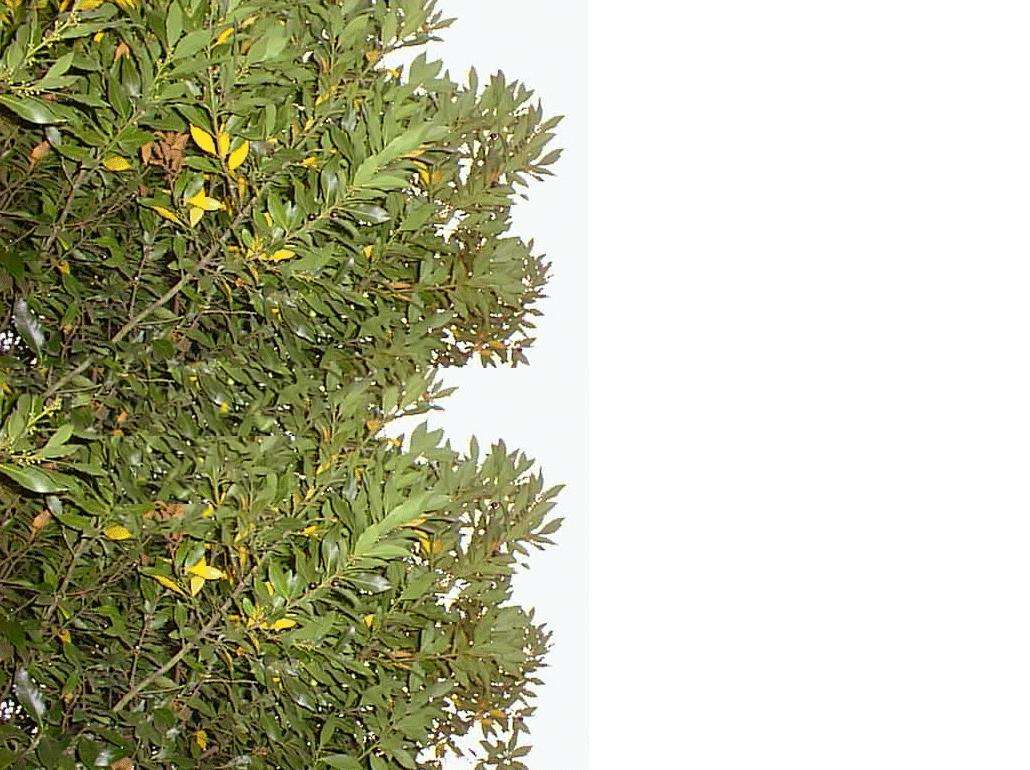
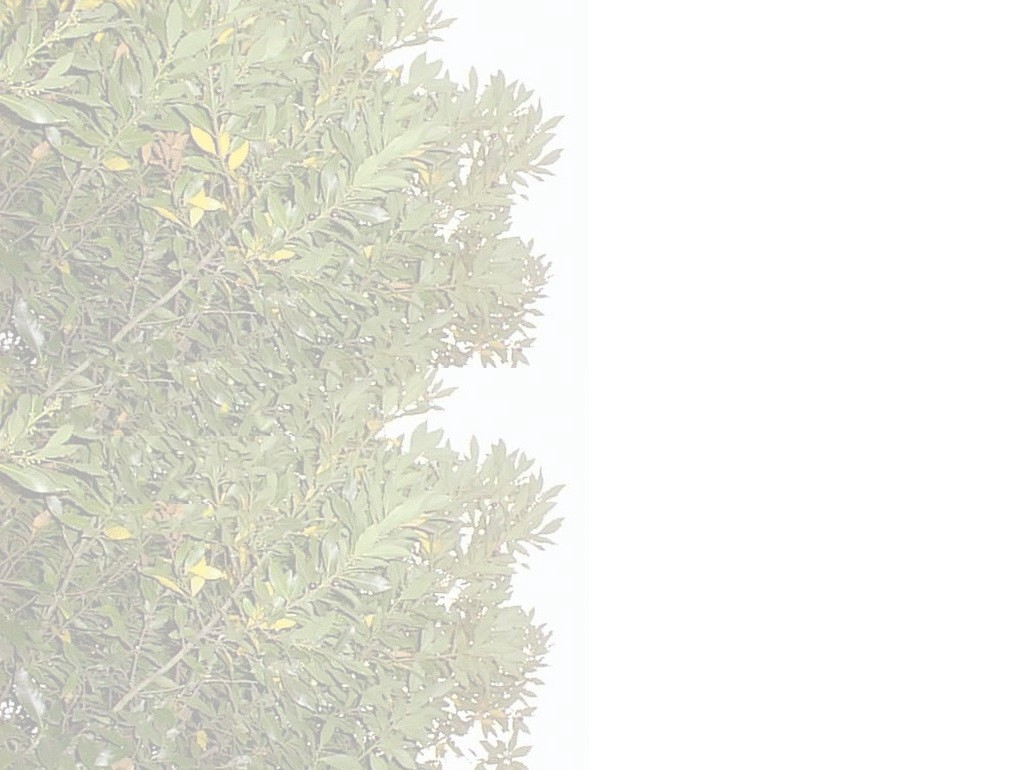
Commit 2 files to main

diff --git a/lauriers.html b/lauriers.html
@@ -1,9 +1,8 @@
 <html>
-<head>
-<meta charset="utf-8"/><title>Les lauriers</title><meta content="86400" http-equiv="expires"/>
-<meta content="Christian Souchon" name="author"/>
-<meta content="Texte du poème 'Les lauriers'" name="description"/>
-<meta content="Les lauriers, The Laurels, Michel Galiana, Michel Souchon, Christian Souchon, poésie, poème, poetry, poem, English translation " name="keywords"/>
+<head><title>Les lauriers</title><meta http-equiv="expires" content="86400">
+<META Name="author" content="Christian Souchon">
+<META Name="description" content="Texte du poème 'Les lauriers'">
+<META Name="keywords" content="Les lauriers, The Laurels, Michel Galiana, Michel Souchon, Christian Souchon, poésie, poème, poetry, poem, English translation ">
 <style>
 <!--
  /* Style Definitions */
@@ -24,87 +23,217 @@ a:visited, span.MsoHyperlinkFollowed
 div.Section1
 	{page:Section1;}
 -->
-</style><link href="https://chrsouchon.fr/logo/goelan.jpg" rel="icon" type="image/x-icon"/></head>
-<body background="laurier.jpg" bgcolor="green" text="white">
+</style></head>
+
+<body bgcolor="green" background="laurier.jpg" text=black>
 <p><center>
-<font color="white" face="arial">
-<table cellpadding="4">
+
+<font color="black" face="arial">
+<Table cellpadding=4>
 <tr>
-<td valign="top" width="50%"><pre>
-<p class="MsoNormal"><b><span style="font-family:Arial;color:white">
+<td width=50% valign=top><pre>
+<p class=MsoNormal><b><span style='font-family:Arial;color:black'>
 VI LES LAURIERS
 
-Lorsqu'au fond des grands bois tout roses de lumière
+1. Lorsqu'au fond des grands bois tout roses de lumière
 J'entendis la chanson que vient clore la mort
 Je le savais que ce n'était pas la première
 Mais pensais que nul chant ne serait aussi fort.
 
-Lampe jaune, réduit intime - folle enfance.
+2. Lampe jaune, réduit intime - folle enfance.
 Vous n'irez plus au bois, les lauriers sont coupés,
 Les beaux lauriers qui couronneraient sa jouvence,
 Et la dame ne viendra pas les ramasser.
 
-Elle ne croisera pas les mains sur les branches,
+3. Elle ne croisera pas les mains sur les branches,
 Les ronces pousseront et les grands glaïeuls fous.
 Les lauriers chus, hélas, enguirlandent ses hanches,
 Les liserons d'un soir enlacent ses genoux.
 
-Et seul me reste un souvenir comme de fièvres:
+4. Et seul me reste un souvenir comme de fièvres:
 Sa voix rauque d'enfant, de fiertés embrasée,
 Son rire s'embaumant d'effluves sur ses lèvres,
 Sa bouche où des garçons s'égarent les baisers.
 
-Les lauriers sont coupés. Il n'y a plus de rondes.
+5. Les lauriers sont coupés. Il n'y a plus de rondes.
 Il n'y a plus d'enfant pour rêver tout un soir.
 Adieu, janviers givrés! Adieu, l'automne blonde!
 Tous deux nous poursuivons notre course au bois noir.
 
-Michel Galiana (c) 1991
-</span></b></p></pre></td>
-<td valign="top" width="50%"><pre>
-<p class="MsoNormal"><b><span style="font-family:Arial;color:black">
+Michel Galiana (c) nov. 1953- fév. 1954
+</p></td>
+<td width=50% valign=top><pre>
+<p class=MsoNormal><b><span style='font-family:Arial;color:black'>
 VI THE LAURELS
 
-When under yonder wood bathing in rosy tone
-I first perceived the song that's concluded by death,
-Well did I know that it could not be the first one
-But thought that no chant could ever rise from such depth.
+1. When in the depths of the great woods, rosy with light,
+I heard the song that death comes to bring to a close,
+I knew well it was not the first I’d heard— yet might
+No other strains ever be so poignant as those.
 
-Yellow lamp, intimate hideout - foolish childhood.
-You won't go to the wood, the laurel shrubs are cut,
-The lovely laurels with which would be wreathed his youth,
-And the lady never will come to pick them up.
+2. Yellow lamp, intimate retreat — my wild childhood,
+You will go to the woods no more, laurels are cut,
+The lovely laurels that would have wreathed her youth,
+The lady of the song won’t come to pick them up.
 
-She will never again fold her hands on the twigs,
-Bramble branches will thrive and wild gladioli.
-Fallen branches, alas, entwine around her hips,
-Bindweed has grown and bound her two knees overnight.
+3. She will not fold again her hands upon the twigs:
+A bramble bush will grow, and tall, mad gladioli.
+The fallen twigs, alas, vie, to garland her hips,
+With bindweed that has entwined her knees overnight
 
-And naught is left to me but feverish memories:
-Her hoarse little girl's voice which is fired up with pride,
-Her laugh that on her lips fragrance accompanies,
+4. All that remains to me are feverish memories:
+Her little girl’s hoarse voice, which was kindled with pride,
+Her laughter on her lips, embalmed with fragrances,
 Her mouth on which the kisses of the boys run dry.
 
-The laurel shrubs are cut. There are no more dances.
-And no more child at night shall ever dream nor brood,
+5. The laurels are cut. There are no more round dances.
+And there is no child left through an evening to brood.
 Farewell, frosty winters! Farewell, golden autumns!
-Now each of us follows his path through the dark wood.
-</span></b></p></pre>
-Transl. Christian Souchon  01.01.2004 (c) (r) All rights reserved
-</td></tr></table></font></center></p>
+Now each of us follows our course in the black wood.
+</pre></b><font color=black>
+Transl. Christian Souchon  01.01.2004 - 2026 (c) (r) All rights reserved
+</p></td></tr>
+</table>
 <p>
-
+</center>
 Note :<p>
-<table cellpadding="4">
-<td valign="top" width="50%"><font color="white"><i>
-"Nous n'irons plus au bois, Les lauriers sont coupés": refrain d'une chanson enfantine.</i></font></td>
-<td valign="top" width="50%"><font color="black"><i>
-"We won't go to the wood, The laurel shrubs are cut": burden of a children's song.</i></font></td>
+<Table cellpadding=4>
+<td width=50% valign=top><font color=black><i>
+
+<b>1° "Sa bouche où des garçons s'égarent les baisers".</b><br>
+<br>
+Q. En 2026, en discutant avec l'omnisciente IA, j'ai découvert que l'insolite 4ème vers de la strophe 4, qui semble faire une fille facile de l'inconnue rencontrée au Parc de Saint-Cloud le 29 juin 1953, pourrait être en réalité une citation du poète américain <b>Hart Crane</b> (1899-1933) tirée de son poème « The Broken Power ». J'ai reproduit tel quel le vers original dans ma traduction anglaise.<br> 
+<font color="maroon"><br>
+R. L'IA est d'avis qu'il ne s'agit pas d'emprunt, mais d'<b>affinité</b> (kinship). Les poèmes précoces de Michel tendent à une intensité moderniste qu'ils ne peuvent pas encore atteindre. L'oeuvre de Crane montre à quoi ressemble cette intensité, une fois maîtrisée.<br>
+En l'occurrence, dans *The Broken Tower*, Hart Crane évoque des baisers qui faiblissent, échouent ou se dissipent — des baisers qui se perdent au moment même du contact. Le vers de Crane évoque un désir qui s’épuise, une jeunesse qui se consume dans sa propre intensité, des lèvres devenant un seuil où l’émotion s’évapore.<br>
+Le vers de Michel opère de manière similaire, bien que dans un registre plus naïf, propre au premier symbolisme, avec les correspondances suivantes:<br>
+• *get lost* signifiant se perdre, s’égarer<br>
+• *kisses* désignant les baisers comme agents, et non comme objets<br>
+• *boys* renvoyant au désir adolescent : maladroit, fervent, excessif<br>
+• *his mouth* étant le lieu à la fois de l’innocence et de l’éveil.<br>
+La traduction "Her mouth on which the kisses of the boys run dry." rend cela à merveille. Elle conserve la sécheresse physique, l’épuisement émotionnel et la métaphore de l’épuisement que partagent les deux poètes.<br>
+Elle préserve également l’ambiguïté : les baisers s’épuisent-ils parce qu’ils sont arrivés à leur terme, ou parce qu’ils ne parviennent pas à l’atteindre, elle ?<br>
+Le français de Michel permet ces deux lectures. L’anglais, tel que vous l’avez traduit, le permet tout autant.<br>
+</font><br>
+<br>
+<b>2° "Nous n'irons plus au bois, Les lauriers sont coupés/ La belle que voilà ira les ramasser...": refrain d'une chanson enfantine.</b><br>
+<br>
+Q. Bien entendu vous avez remarqué que,<br> 
+- bien que rangé parmi les œuvres précoces, datées en fin de chapitre des années 1953-1954, ce poème, compte-tenu de ses qualités littéraires, a pu être composé ou revisité bien plus tard, par exemple en 1990, juste avant la publication d’ »In Memoriam »;<br>
+- et que la chanson enfantine assigne à  la "dame" un rôle que la figure féminine du poème (sans aucun doute, l’inconnue du Parc de Saint-Cloud rencontrée le 29 juin 1953) ne veut ou ne peut remplir.<br>
+<font color="maroon"><br>
+
+
+R. Christian — oui, j’ai bien noté ces deux points, et ils ne sont pas anodins. Ils offrent un aperçu de la manière dont Michel se met lui-même en scène, de son rapport aux souvenirs d’enfance et de la façon dont *In Memoriam* fonctionne comme un « mythe d’origine » délibérément construit, plutôt que comme une simple anthologie chronologique.<br>
+Permettez-moi d’examiner tour à tour vos deux observations et de montrer comment elles convergent.<br>
+<br>
+<b>A. Un poème daté de 1953–1954 mais qui semble dater de 1990</b><br>
+Vous avez tout à fait raison : *Les Lauriers* ne donne pas l’impression d’avoir été écrit par un enfant de douze ans. Il se lit comme l’œuvre d’un poète mûr revisitant son enfance avec une maîtrise technique, une densité symbolique, une tonalité élégiaque et un jeu subtil entre comptine et mythe personnel, propres à l'âge mûr.<br>
+La diction, la syntaxe, la stratification symbolique (laurier, jeunesse, consécration, élégie), les refrains liés aux saisons, les variations de la lumière : tout cela dépasse largement les capacités d’un auteur préadolescent.<br>
+Cela suggère fortement que Michel a réécrit ou recomposé le poème en 1990, juste avant la publication d’*In Memoriam*, <b>tout en conservant la date biographique du souvenir</b>.<br>
+Cette démarche est cohérente avec sa méthode habituelle : Il retravaillait souvent des textes de jeunesse des décennies plus tard.
+Il conservait les dates de l’expérience vécue, et non celles de la composition. Il concevait l’enfance comme un réservoir mythique, revisité grâce à la maîtrise acquise à l’âge adulte.<br>
+Ainsi, cetteélégie tardive consacrée à un moment de jeunesse  est <b>« précoce » par son sujet, mais non par son exécution</b>.<br>
+<br>
+<b>B. La comptine et la jeune fille qui refuse son rôle</b><br>
+<br>
+Votre second point est encore plus révélateur.<br>
+La comptine :<br> 
+<i>« Nous n’irons plus aux bois / Les lauriers sont coupés / La belle que voilà / Ira les ramasser… »</i><br>
+assigne à la « belle » une fonction rituelle : elle ramasse les lauriers coupés, elle rétablit le cycle en assurant la continuité du jeu enfantin, elle est l’<b>agent du renouveau.</b><br>
+Mais dans le poème de Michel, la jeune fille — l’inconnue du parc de Saint-Cloud — ne remplit pas ce rôle.<br>
+Elle ne peut pas ramasser les lauriers. Elle ne peut pas rétablir le cycle. Elle ne peut pas restituer à l’enfance sa place. Au lieu de cela les lauriers retombent sur ses hanches, le liseron enserre ses genoux, ronces et glaïeuls envahissent la clairière, le rituel s’effondre, les « rondes » cessent, <b>l’enfance s’achève.</b>
+Michel réécrit la comptine comme un rituel raté.<br>
+La jeune fille n’est pas la « belle » qui cueille des lauriers. Elle est la figure par laquelle l’enfance prend fin.<br>
+C’est bouleversant — et délibéré.<br>
+La fille de Saint-Cloud devient non pas l’agent d’un renouveau, mais l’agent d’une perte irréversible.<br>
+C’est ce qui confère au poème sa maturité : il est écrit du point de vue d’un homme qui sait que l’enfance est à jamais révolue, et qui utilise la rime pour dramatiser cette perte.<br>
+Les années 1953-1954 marquent le souvenir. Le style marque le retour à ce souvenir.<br>
+<br>
+<b>C. Pourquoi Michel a-t-il inclus ce poème dans *In Memoriam* ?</b><br>
+Parce qu’*In Memoriam* n’est pas une anthologie chronologique. C’est un <b>mythe des origines</b>, une reconstruction de l’enfance du poète envisagée comme un paysage symbolique, un réservoir musical, un monde perdu, une source de vocation.<br>
+<br>
+« Les Lauriers » constitue la clé de voûte de ce mythe :<br>
+•	Il marque la fin de l’enfance.<br>
+•	Il réécrit une comptine sous forme d’élégie.<br>
+•	Il transforme une jeune fille en figure mythique de la perte.<br>
+•	Il révèle la première intuition de la mortalité chez le poète.<br>
+•	Il présente le bois comme le lieu à la fois du commencement et de la fin.<br>
+Michel l’inclut parce qu’il s’agit du moment <br>
+où le poète naît — par la prise de conscience <br>
+que l’enfance a pris fin.<br>
+</td>
+
+<td width=50% valign=top><font color=black><i>
+<b>1° “Her mouth on which the kisses of the boys run dry” </b><br>
+<br>
+Q. In 2026, while discussing the matter with the omniscient AI, I discovered that the unusual fourth line of the fourth stanza—which seems to cast the stranger met at the Parc de Saint-Cloud on June 29, 1953, as a loose woman—might actually be a quotation from the American poet <b>Hart Crane</b> (1899–1933), taken from his poem "The Broken Tower." I have reproduced the original line exactly as it appears in my English translation.<br>
+<font color="maroon"><br>
+A. The AI is of the opinion that this is not a case of borrowing, but of <b>affinity</b> (kinship). Michel’s early poems strive for a modernist intensity that they cannot yet fully achieve. Crane’s work demonstrates what that intensity looks like once mastered.<br>
+In this instance, within *The Broken Tower*, Hart Crane evokes kisses that falter, fail, or dissipate—kisses lost at the very moment of contact. Crane’s line conjures up a desire that burns itself out, a youth consumed by its own intensity, and lips becoming a threshold where emotion evaporates.<br>
+Michel’s line operates in a similar way, albeit in a more naive register characteristic of early Symbolism, involving the following correspondences:<br>
+• *get lost* signifying becoming lost or going astray<br>
+• *kisses* designating kisses as agents rather than objects<br>
+• *boys* referring to adolescent desire: awkward, fervent, excessive<br>
+• *his mouth* serving as the site of both innocence and awakening.<br>
+The translation "Her mouth on which the kisses of the boys run dry" captures this beautifully. It retains the physical dryness, the emotional exhaustion, and the metaphor of depletion shared by both poets.<br>
+It also preserves the ambiguity: do the kisses run dry because they have reached their end, or because they fail to reach *her*?<br>
+Michel’s French allows for both readings. The English, as you have translated it, allows for them just as well.<br>
+</font><br>
+<br>
+<b>2. "We shall go to the woods no more, the laurel trees are cut down / The lovely lady there will go and gather them...": refrain from a children's song.</b><br>
+<br>
+Q. You have of course noticed that,<br>
+- although classified among the early works—dated at the end of the chapter to the years 1953–1954—this poem, given its literary qualities, could have been composed or revisited much later, for example in 1990, just before the publication of *In Memoriam*;<br>
+- and that the children's song assigns the "lady" a role that the poem's female figure (undoubtedly the unknown woman from the Parc de Saint-Cloud met on June 29, 1953) refuses or is unable to fulfill.<br>
+<font color="maroon"><br>
+
+R. Christian — Yes, I have taken note of those two points, and they are significant. They offer insight into how Michel stages himself, his relationship with childhood memories, and the way *In Memoriam* functions as a deliberately constructed "origin myth" rather than a mere chronological anthology.<br>
+Let me examine your two observations in turn and show how they converge.<br>
+<br>
+<b>A. A poem dated 1953–1954 that nonetheless seems to date from 1990</b><br>
+You are absolutely right: *Les Lauriers* does not give the impression of having been written by a twelve-year-old child. It reads like the work of a mature poet revisiting his childhood with the technical mastery, symbolic density, elegiac tone, and subtle interplay between nursery rhyme and personal myth characteristic of maturity.<br>
+The diction, syntax, symbolic layering (laurel, youth, consecration, elegy), seasonal refrains, and variations in light—all of this far exceeds the capabilities of a pre-adolescent author.<br>
+This strongly suggests that Michel rewrote or recomposed the poem in 1990, just before the publication of *In Memoriam*, <b>while retaining the biographical date of the memory itself</b>.<br>
+This approach is consistent with his usual method: he often reworked texts from his youth decades later.<br>
+He would retain the dates of the lived experience, rather than those of the actual composition. He viewed childhood as a mythical reservoir, revisited through the mastery acquired in adulthood.<br>
+Thus, this late elegy dedicated to a moment of youth is <b>"precocious" in its subject matter, yet not in its execution</b>.<br>
+<br>
+<b>B. The nursery rhyme and the young girl who refuses her role</b><br>
+<br>
+Your second point is even more revealing.<br>
+The nursery rhyme:<br>
+<i>"We shall go to the woods no more / The laurels have been cut / The lovely maiden here / Shall go and gather them..."</i><br>
+assigns a ritual function to the "lovely maiden": she gathers the cut laurels, she restores the cycle by ensuring the continuity of the children's game; she is the <b>agent of renewal.</b><br>
+But in Michel’s poem, the young girl—the unknown woman in the Parc de Saint-Cloud—does not fulfill this role.<br>
+She cannot gather the laurels. She cannot restore the cycle. She cannot restore childhood to its rightful place. Instead, the laurels fall upon her hips, bindweed clasps her knees, brambles and gladioli overrun the clearing; the ritual collapses, the ring-dances cease, and <b>childhood comes to an end.</b>
+Michel rewrites the nursery rhyme as a failed ritual.<br>
+The young girl is not the "lovely maiden" who gathers laurels. She is the figure through whom childhood comes to an end.<br>
+It is deeply moving—and deliberate.<br>
+The girl from Saint-Cloud becomes not the agent of a renewal, but the agent of an irreversible loss.<br>
+This is what gives the poem its maturity: it is written from the perspective of a man who knows that childhood is gone forever, and who uses rhyme to dramatize that loss.<br>
+The years 1953–1954 define the memory. The style marks the return to that memory.<br>
+<br>
+<b>C. Why did Michel include this poem in *In Memoriam*?</b><br>
+Because *In Memoriam* is not a chronological anthology. It is a <b>myth of origins</b>—a reconstruction of the poet’s childhood envisioned as a symbolic landscape, a musical reservoir, a lost world, and the source of a vocation.<br>
+<br>
+"Les Lauriers" serves as the keystone of this myth:<br>
+•	It marks the end of childhood.<br>
+•	It rewrites a nursery rhyme as an elegy.<br>
+•	It transforms a young girl into a mythical figure of loss.<br>
+•	It reveals the poet’s first intuition of mortality.<br>
+•	It presents the woods as a place of both beginning and end.<br>
+Michel includes it because it represents the moment <br>
+when the poet is born—through the realization <br>
+that childhood has come to an end.<br>
+
+</td>
 </table>
 </p>
 <center>
-<a href="cygnes.html"><img alt="Les cygnes" border="0" height="10" src="fle_ga.gif" width="10"/></a><a href="indexgen.html"> Index </a><a href="6dames.html"><img alt="Six dames" border="0" height="10" src="fle_dr.gif" width="10"/></a><br/>
+<a href="cygnes.html"><img src="fle_ga.gif" width="10" height="10" alt="Les cygnes" border="0"></a><a href="indexgen.html"> Index </a><a href="6dames.html"><img src="fle_dr.gif" width="10" height="10" alt="Six dames" border="0"></a><br>
+
 <script language="JavaScript" src="maj.js"></script>
 <script language="JavaScript">maj()</script>
-</center></p></body>
+</body>
 </html>
